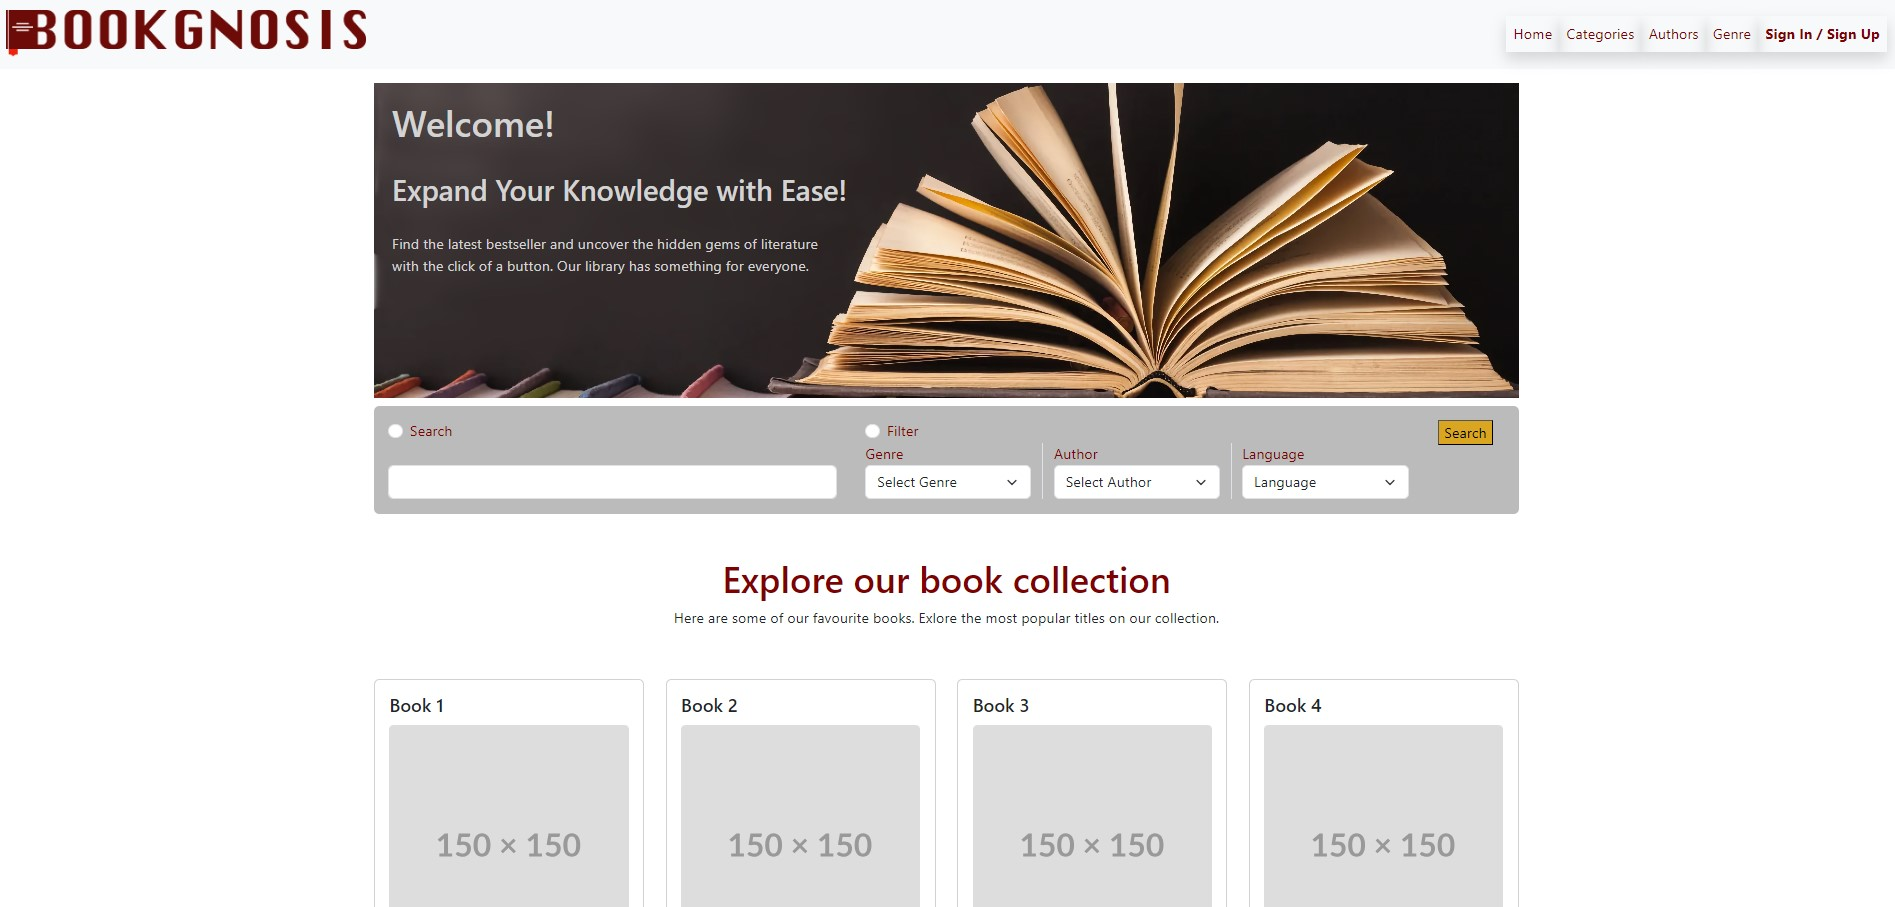
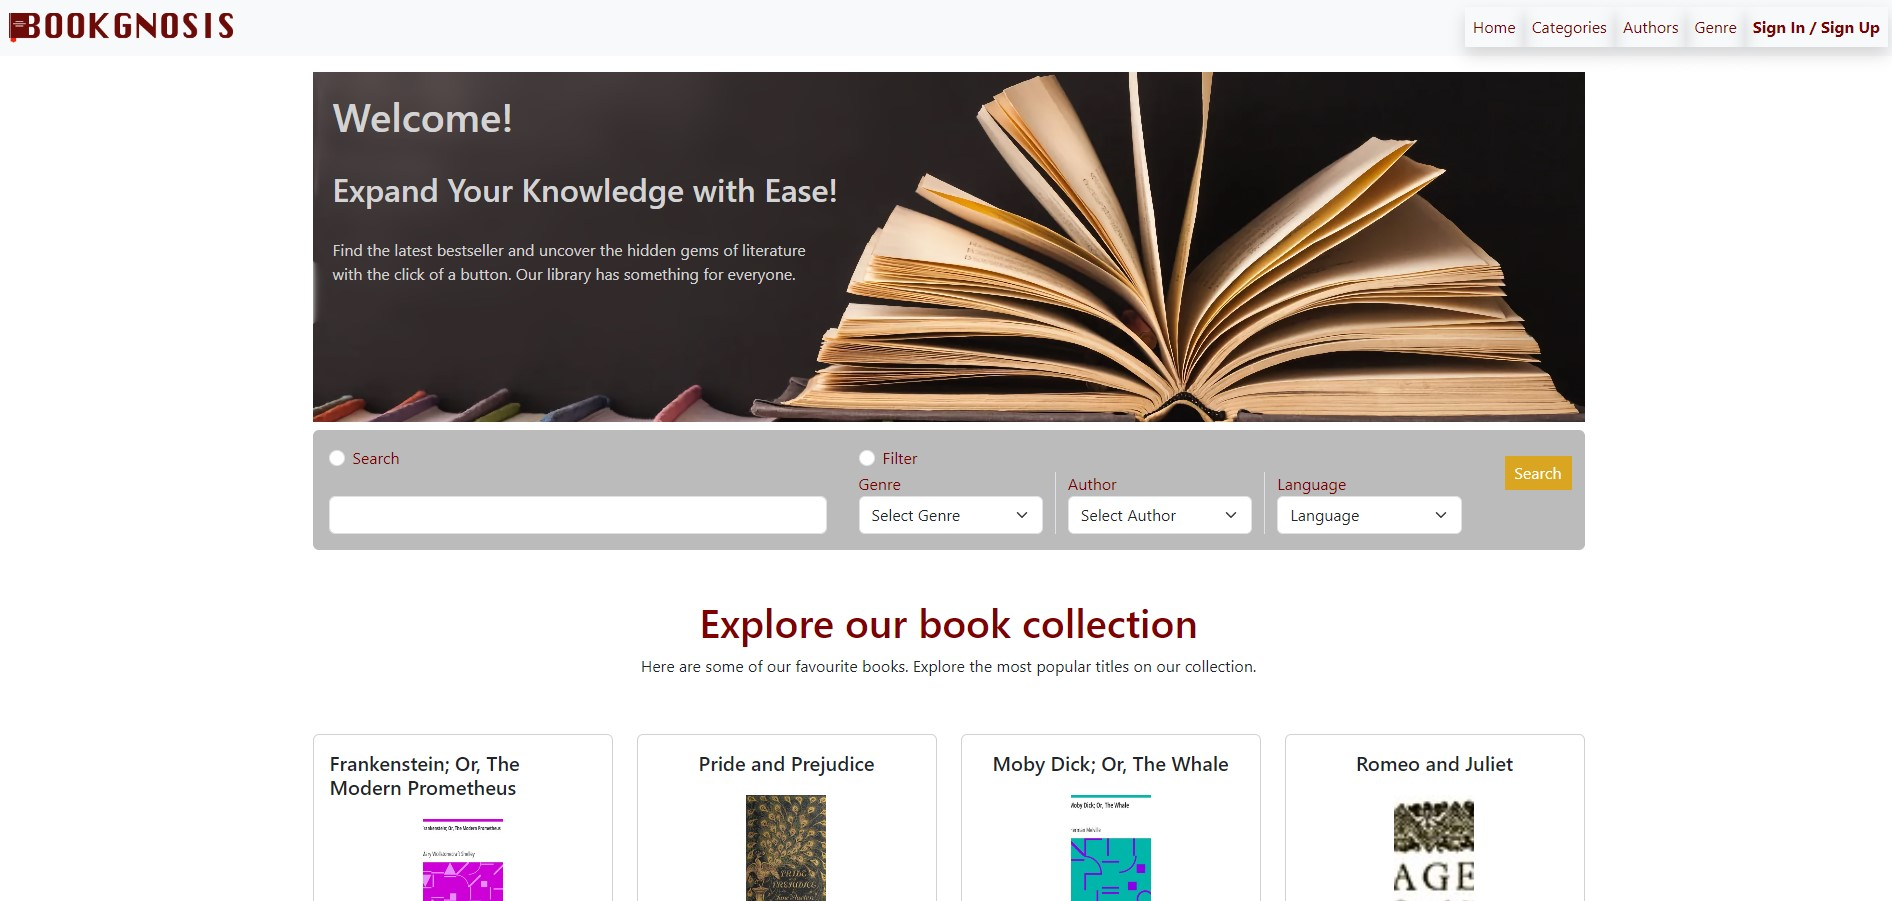
Update readme with new photos; delete photos not used; clean and format code

diff --git a/src/components/footer.jsx b/src/components/footer.jsx
@@ -5,13 +5,13 @@ import { FaInstagram } from "react-icons/fa";
 
 const Footer = () => {
   return (
-    <footer className="col-lg-12 col-sm-12 footer bg-white container mt-5 justify-content-around">
+    <footer className="container pt-5">
       <div className="row">
-        <div className="">
-          <div className="bookgnosis-block d-flex flex-column align-items-left mb-4">
-            <img src="/public/BookGnosis-lg.png" alt="BookGnosis" className="img-fluid" style={{ height: '30px', width: 'auto' }} />
-            <p className="text-muted mb-4 text-start">Welcome to our book reading app.</p>
-            <div className="social-icons d-flex flex-row text-start justify-content-around">
+        <div className="col-12 col-md-4">
+          <div className="bookgnosis-block d-flex flex-column mb-4">
+            <img src="/Logo-small.png" alt="BookGnosis" className="img-fluid align-self-center" style={{ width: '250px' }} />
+            <p className="text-muted mb-4 align-self-center">Welcome to our book reading app.</p>
+            <div className="d-flex justify-content-around">
               <a href="https://www.facebook.com" alt="Facebook" style={{ color: 'blue' }}>
                 <BsFacebook size={32} />
               </a>
@@ -24,34 +24,34 @@ const Footer = () => {
             </div>
           </div>
         </div>
-      </div>
-      <div className="col-lg-6 col-sm-12">
-        <div className='row'>
-          <div className="col-lg-4">
-            <h5 className="maroon">About</h5>
-            <ul className="list-unstyled text-start text-muted">
-              <li><a href="/about">Our Team</a></li>
-              <li><a href="/mission">Our Mission</a></li>
-            </ul>
-          </div>
-          <div className="col-lg-4">
-            <h5 className="maroon">Discover</h5>
-            <ul className="list-unstyled text-start text-muted">
-              <li>Authors</li>
-              <li>Genres</li>
-              <li>Popular Books</li>
-            </ul>
-          </div>
-          <div className="col-lg-4">
-            <h5 className="maroon">Support</h5>
-            <ul className="list-unstyled text-start text-muted">
-              <li>Help Centre</li>
-              <li>Contact Us</li>
-            </ul>
+        <div className="col-12 col-md-8 align-self-center">
+          <div className="row d-flex justify-content-around">
+            <div className="col-sm-12 col-md-4">
+              <h5 className="maroon">About</h5>
+              <ul className="list-unstyled text-start text-muted">
+                <li><a href="/about" className="text-decoration-none">Our Team</a></li>
+                <li><a href="/mission" className="text-decoration-none">Our Mission</a></li>
+              </ul>
+            </div>
+            <div className="col-sm-12 col-md-4">
+              <h5 className="maroon">Discover</h5>
+              <ul className="list-unstyled text-start text-muted">
+                <li>Authors</li>
+                <li>Genres</li>
+                <li>Popular Books</li>
+              </ul>
+            </div>
+            <div className="col-sm-12 col-md-4">
+              <h5 className="maroon">Support</h5>
+              <ul className="list-unstyled text-start text-muted">
+                <li>Help Centre</li>
+                <li>Contact Us</li>
+              </ul>
+            </div>
           </div>
         </div>
       </div>
-
+      <br></br>
     </footer>
   );
 };

diff --git a/src/components/pages/AboutUs.jsx b/src/components/pages/AboutUs.jsx
@@ -2,54 +2,54 @@ import React from 'react';
 import Navigation from '../Navigation';
 
 const teamMembers = [
-    {
-        name: 'Alexandra Ionescu',
-        photo: '/Alex.jpg',
-        github: 'https://github.com/ionescuea',
-    },
-    {
-        name: 'Fernanda Lujan',
-        photo: '/Fernanda.png',
-        github: 'https://github.com/MaFer74',
-    },
-    {
-        name: 'Frank Gabriel Rodriguez Lee',
-        photo: '/Frank.png',
-        github: 'https://github.com/frankrl86',
-    },
-    {
-        name: 'Jessica Santos',
-        photo: '/Jessica.jpg',
-        github: 'https://github.com/jess-santos',
-    },
-    {
-        name: 'Paul Asquith',
-        photo: 'https://via.placeholder.com/150',
-        github: 'https://github.com/Paul-codecourse',
-    },
+  {
+    name: 'Alexandra Ionescu',
+    photo: '/Alex.jpg',
+    github: 'https://github.com/ionescuea',
+  },
+  {
+    name: 'Fernanda Lujan',
+    photo: '/Fernanda.png',
+    github: 'https://github.com/MaFer74',
+  },
+  {
+    name: 'Frank Gabriel Rodriguez Lee',
+    photo: '/Frank.png',
+    github: 'https://github.com/frankrl86',
+  },
+  {
+    name: 'Jessica Santos',
+    photo: '/Jessica.jpg',
+    github: 'https://github.com/jess-santos',
+  },
+  {
+    name: 'Paul Asquith',
+    photo: 'https://via.placeholder.com/150',
+    github: 'https://github.com/Paul-codecourse',
+  },
 ];
 
 function AboutUs() {
-    return (
-        <div>
-            <div className="container">
-            <h1 className="about-us-title">Our team</h1>
-                <div className="row">
-                    {teamMembers.map((member, index) => (
-                        <div key={index} className="col-md-4 mb-4">
-                            <div className="card">
-                                <img src={member.photo} className="card-img-top" alt={member.name} />
-                                <div className="card-body">
-                                    <h5 className="card-title">{member.name}</h5>
-                                    <a href={member.github} target="_blank" rel="noopener noreferrer" className="btn btn-primary">GitHub Profile</a>
-                                </div>
-                            </div>
-                        </div>
-                    ))}
+  return (
+    <div>
+      <div className="container">
+        <h1 className="about-us-title">Our team</h1>
+        <div className="row">
+          {teamMembers.map((member, index) => (
+            <div key={index} className="col-md-4 mb-4">
+              <div className="card">
+                <img src={member.photo} className="card-img-top" alt={member.name} />
+                <div className="card-body">
+                  <h5 className="card-title">{member.name}</h5>
+                  <a href={member.github} target="_blank" rel="noopener noreferrer" className="btn btn-primary">GitHub Profile</a>
                 </div>
+              </div>
             </div>
+          ))}
         </div>
-    );
+      </div>
+    </div>
+  );
 }
 
 export default AboutUs;

diff --git a/src/components/pages/SignUp.jsx b/src/components/pages/SignUp.jsx
@@ -7,30 +7,30 @@ function SignUp() {
       <div className='row'>
         <div className='col-sm-12 col-md-6'>
         <form>
-  <div class="mb-3">
-    <label for="exampleInputEmail1" class="form-label">Email address</label>
-    <input type="email" class="form-control" id="exampleInputEmail1" aria-describedby="emailHelp"/>
-    <div id="emailHelp" class="form-text">We'll never share your email with anyone else.</div>
+  <div className="mb-3">
+    <label htmlFor="exampleInputEmail1" className="form-label">Email address</label>
+    <input type="email" className="form-control" id="exampleInputEmail1" aria-describedby="emailHelp"/>
+    <div id="emailHelp" className="form-text">We'll never share your email with anyone else.</div>
   </div>
-  <div class="mb-3">
-    <label for="exampleInputPassword1" class="form-label">Password</label>
-    <input type="password" class="form-control" id="exampleInputPassword1"/>
+  <div className="mb-3">
+    <label htmlFor="exampleInputPassword1" className="form-label">Password</label>
+    <input type="password" className="form-control" id="exampleInputPassword1"/>
   </div>
-  <button type="submit" class="btn btn-primary">Sign Up</button>
+  <button type="submit" className="btn btn-primary">Sign Up</button>
 </form>
         </div>
         <div className='col-sm-12 col-md-6'>
         <form>
-  <div class="mb-3">
-    <label for="exampleInputEmail1" class="form-label">Email address</label>
-    <input type="email" class="form-control" id="exampleInputEmail1" aria-describedby="emailHelp"/>
-    <div id="emailHelp" class="form-text">We'll never share your email with anyone else.</div>
+  <div className="mb-3">
+    <label htmlFor="exampleInputEmail1" className="form-label">Email address</label>
+    <input type="email" className="form-control" id="exampleInputEmail1" aria-describedby="emailHelp"/>
+    <div id="emailHelp" className="form-text">We'll never share your email with anyone else.</div>
   </div>
-  <div class="mb-3">
-    <label for="exampleInputPassword1" class="form-label">Password</label>
-    <input type="password" class="form-control" id="exampleInputPassword1"/>
+  <div className="mb-3">
+    <label htmlFor="exampleInputPassword1" className="form-label">Password</label>
+    <input type="password" className="form-control" id="exampleInputPassword1"/>
   </div>
-  <button type="submit" class="btn btn-primary">Sign In</button>
+  <button type="submit" className="btn btn-primary">Sign In</button>
 </form>
         </div>
       </div>

diff --git a/src/components/pages/Displaymainbook.jsx b/src/components/pages/Displaymainbook.jsx
@@ -1,4 +1,3 @@
-
 import React from 'react';
 import 'bootstrap/dist/css/bootstrap.min.css';
 
@@ -15,17 +14,17 @@ function DisplayMainBook() {
   
     return (
       <div className="container">
-        <div class="card mb-3">
-  <div class="row g-0">
-    <div class="col-md-4">
-      <img src={book.image} class="img-fluid rounded-start" alt={book.title}/>
+        <div className="card mb-3">
+  <div className="row g-0">
+    <div className="col-md-4">
+      <img src={book.image} className="img-fluid rounded-start" alt={book.title}/>
     </div>
-    <div class="col-md-8">
-      <div class="card-body">
-        <h5 class="card-title">{book.title}</h5>
+    <div className="col-md-8">
+      <div className="card-body">
+        <h5 className="card-title">{book.title}</h5>
         <p className="card-text">{book.author}</p>
-        <p class="card-text">{book.description}</p>
-        <p class="card-text"><small class="text-body-secondary">{book.series}</small></p>
+        <p className="card-text">{book.description}</p>
+        <p className="card-text"><small className="text-body-secondary">{book.series}</small></p>
       </div>
     </div>
   </div>
@@ -35,3 +34,4 @@ function DisplayMainBook() {
   }
   
   export default DisplayMainBook;
+  

diff --git a/src/index.css b/src/index.css
@@ -6,12 +6,11 @@ height: 350px;
 color: lightgray;
 padding: 20px;
 }
-.btn-search{
-background-color:goldenrod;
+.btn-search {
+  background-color:goldenrod;
 }
 
-
-.hero-box{
+.hero-box {
   /* background-color: #6c757d; */
 }
 .p{
@@ -30,43 +29,6 @@ background-color:goldenrod;
   color: maroon;
 }
 
-/* footer css just a suggestion. Clearly this will need updating when we see what the standard css, fonts, etc, used will be */
-
-.footer {
-  display: flex;
-  justify-content: space-between;
-  align-items: center;
-  background-color: #333;
-  color: #fff;
-  padding: 20px;
-}
-
-.footer-left {
-  width: 30%;
-}
-
-.footer-right {
-  display: flex;
-  justify-content: space-between;
-  width: 40%;
-}
-
-.footer-column {
-  flex: 1;
-}
-
-.footer-column h3 {
-  margin-bottom: 10px;
-}
-
-.footer-column ul {
-  list-style-type: none;
-}
-
-.footer-column ul li {
-  margin-bottom: 5px;
-}
-
 h4 {
   color: #6c757d;
   text-align: left;
@@ -75,15 +37,6 @@ h4 {
 h5 {
   color: #6c757d;
   text-align: left;
-}
-
-.footer-column {
-  display: flex;
-  flex-direction: column;
-}
-
-.footer-column h3 {
-  margin-bottom: 0;
 }
 
 .smlicon {

diff --git a/src/components/Navigation.jsx b/src/components/Navigation.jsx
@@ -6,7 +6,7 @@ function Navigation() {
     <nav className="navbar navbar-expand-lg bg-body-tertiary">
       <div className="container-fluid">
         <Link className="navbar-brand" to="/">
-          <img src="/public/BookGnosis-lg.png" alt="BookGnosis" className="img-fluid"  style={{ height: '30px', width: 'auto'}} />
+          <img src="public/BookGnosis-lg.png" alt="BookGnosis" className="img-fluid"  style={{ height: '30px', width: 'auto'}} />
         </Link>
         <button className="navbar-toggler" type="button" data-bs-toggle="collapse" data-bs-target="#navbarNav" aria-controls="navbarNav" aria-expanded="false" aria-label="Toggle navigation">
           <span className="navbar-toggler-icon"></span>
@@ -28,7 +28,6 @@ function Navigation() {
             <li className="nav-item">
               <Link className="nav-link shadow bold maroon" to="/signUp">Sign In / Sign Up</Link>
             </li>
-
           </ul>
         </div>
       </div>

diff --git a/src/components/Header.jsx b/src/components/Header.jsx
@@ -7,7 +7,7 @@ const handleClick=()=>{
   navigate("/resultbooks")
 }
   return (
-    <div className="container-fluid pt-3 m-0 ">
+    <div className="container-fluid pt-3 m-0">
       <div className="hero">
         <div className="d-flex hero-box">
           <div className="p">

diff --git a/src/components/pages/Displaypage.jsx b/src/components/pages/Displaypage.jsx
@@ -73,11 +73,4 @@ function DisplayPage() {
   );
 }
 
-
-
-
-
-
-  
-  
   export default DisplayPage;

diff --git a/src/components/pages/BookItems.jsx b/src/components/pages/BookItems.jsx
@@ -98,4 +98,3 @@ function BookItems(props) {
 }
 
 export default BookItems;
-
